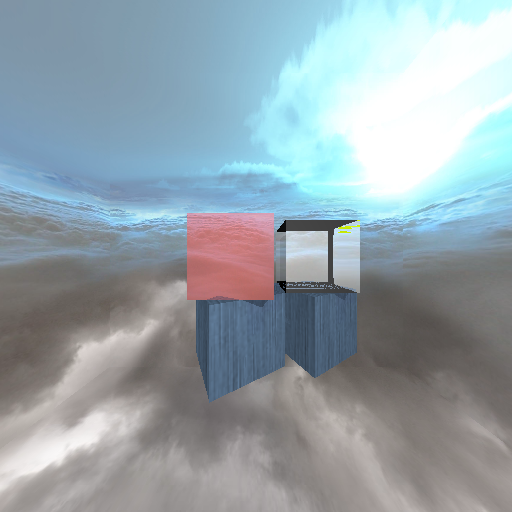
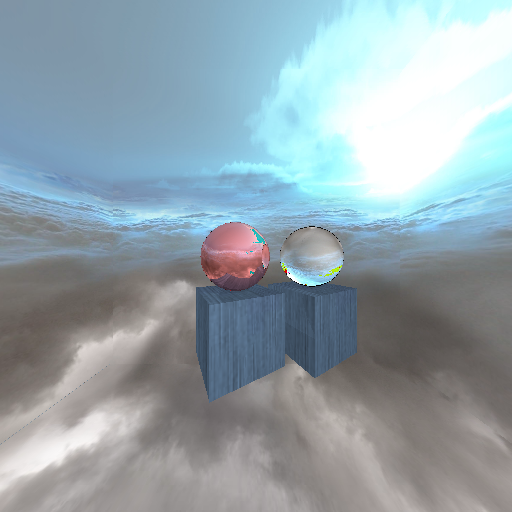
fix numerical error bug

Changed region(s): [[0.3438, 0.4062, 0.7188, 0.5938]]

diff --git a/display/testCPU.cpp b/display/testCPU.cpp
@@ -15,11 +15,9 @@ void testCPU()
 {
 	int imgw = 512, imgh = 512;
 	cv::Mat mask = cv::Mat::zeros(imgh, imgw, CV_8UC3);
-	for (int i = 0; i < imgh; ++i) {
-		printf("%d of %d\n", i, imgh);
-		for (int j = 0; j < imgw; ++j) {
-			j = 255;
-			i = 255;
+	for (int i = 231; i < imgh; ++i) {
+		for (int j = 211; j < imgw; ++j) {
+			printf("%d %d\n", i, j);
 			float dis_per_pix = tan(World::fov * 0.5 * 3.141592654 / 180.0) / (imgw / 2);
 			glm::vec3 right = glm::cross(World::camera_lookat, World::camera_up);
 			glm::vec3 ray_d = glm::normalize(World::camera_lookat + (j - imgw / 2) * dis_per_pix * right + (imgh / 2 - i) * dis_per_pix * World::camera_up);
@@ -74,7 +72,7 @@ void testCPU()
 							node += 1;
 							path_state[node] = 0;
 							from_stack[node] = hit_point3;
-							to_stack[node] = ray_d - 2 * glm::dot(ray_d, normal3) * normal3;
+							to_stack[node] = glm::normalize(ray_d - 2 * glm::dot(ray_d, normal3) * normal3);
 							light_stack[node] = glm::vec3(0, 0, 0);
 							continue;
 						}
@@ -105,7 +103,7 @@ void testCPU()
 							node += 1;
 							path_state[node] = 0;
 							from_stack[node] = to_stack[node - 1];
-							to_stack[node] = (nr * cost - rootContent) * normal3 + nr * ray_d;
+							to_stack[node] = glm::normalize((nr * cost - rootContent) * normal3 + nr * ray_d);
 							light_stack[node] = glm::vec3(0, 0, 0);
 							continue;
 						}
@@ -133,12 +131,10 @@ void testCPU()
 					int obj_index = mat_stack[node - 1];
 					if (path_state[node - 1] == 1) {
 						light_stack[node - 1] += g_world.material[obj_index].kr * color_stack[node - 1] * light_stack[node] / 255.0f;
-						light_stack[node - 1] = light_stack[node];
 					}
 					else
 						if (path_state[node - 1] == 2) {
 							light_stack[node - 1] += g_world.material[obj_index].kf * color_stack[node - 1] * light_stack[node] / 255.0f;
-							light_stack[node - 1] = light_stack[node];
 						}
 						else {
 							hit_mat -= 1;
@@ -146,7 +142,6 @@ void testCPU()
 							ray_d = glm::normalize(to_stack[node - 1] - from_stack[node - 1]);
 							float alpha = g_world.material[obj_index].alpha;
 							light_stack[node - 1] += g_world.material[obj_index].ks * color_stack[node - 1] * light_stack[node] * glm::dot(-ray_d, normal3) / 255.0f;
-							light_stack[node - 1] = light_stack[node];
 						}
 						node -= 1;
 				}

diff --git a/display/display.cpp b/display/display.cpp
@@ -24,22 +24,10 @@ void RenderImage()
 	dim3 grid(image_width / block.x, image_height / block.y, 1);
 	// execute CUDA kernel
 	cudaRender(grid, block, 0, out_data, image_width, image_height);
-	/*
+	
 	std::vector<int> imgdata(image_height * image_width);
 	cudaMemcpy(imgdata.data(), out_data, sizeof(int) * imgdata.size(), cudaMemcpyDeviceToHost);
-	cv::Mat img(image_height, image_width, CV_8UC3);
-	for (int i = 0; i < image_height; ++i) {
-		for (int j = 0; j < image_width; ++j) {
-			int t = imgdata[i * image_width + j];
-			int b = t >> 16;
-			int g = (t >> 8) % 256;
-			int r = t % 256;
-			img.at<cv::Vec3b>(i, j) = cv::Vec3b(b, g, r);
-		}
-	}
-	cv::imwrite("image.png", img);
-	exit(0);
-	*/
+	
 	// CUDA generated data in cuda memory or in a mapped PBO made of BGRA 8 bits
 	// 2 solutions, here :
 	// - use glTexSubImage2D(), there is the potential to loose performance in possible hidden conversion

diff --git a/loader/objloader.cpp b/loader/objloader.cpp
@@ -123,6 +123,10 @@ bool loadOBJ(
 		// Put the attributes in buffers
 		out_vertices.push_back(vertex);
 		out_uvs     .push_back(uv);
+		if (strcmp(path, "obj/sphere.obj") == 0) {
+			if (glm::dot(temp_normals[normalIndices[i] - 1], vertex) < 0)
+				printf("%lf\n", glm::dot(temp_normals[normalIndices[i] - 1], vertex));
+		}
 		if (smooth)
 			out_normals .push_back(ave_normals[ vertexIndex-1 ]);
 		else
